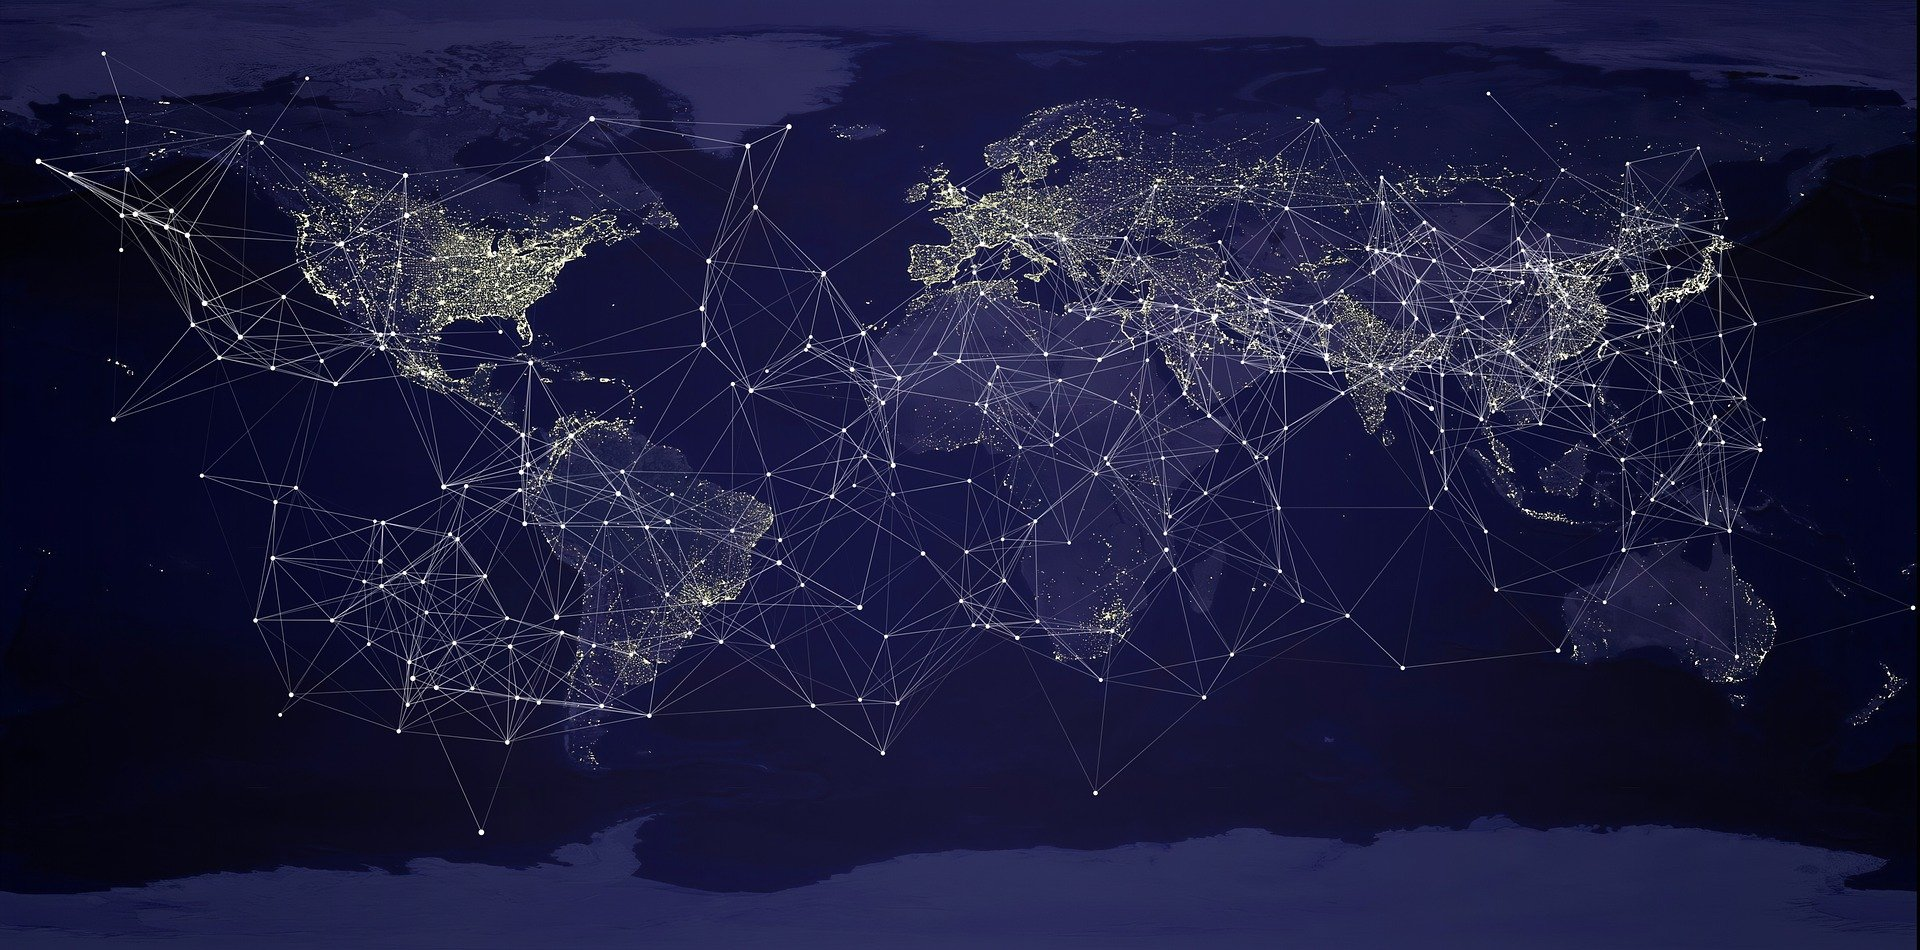
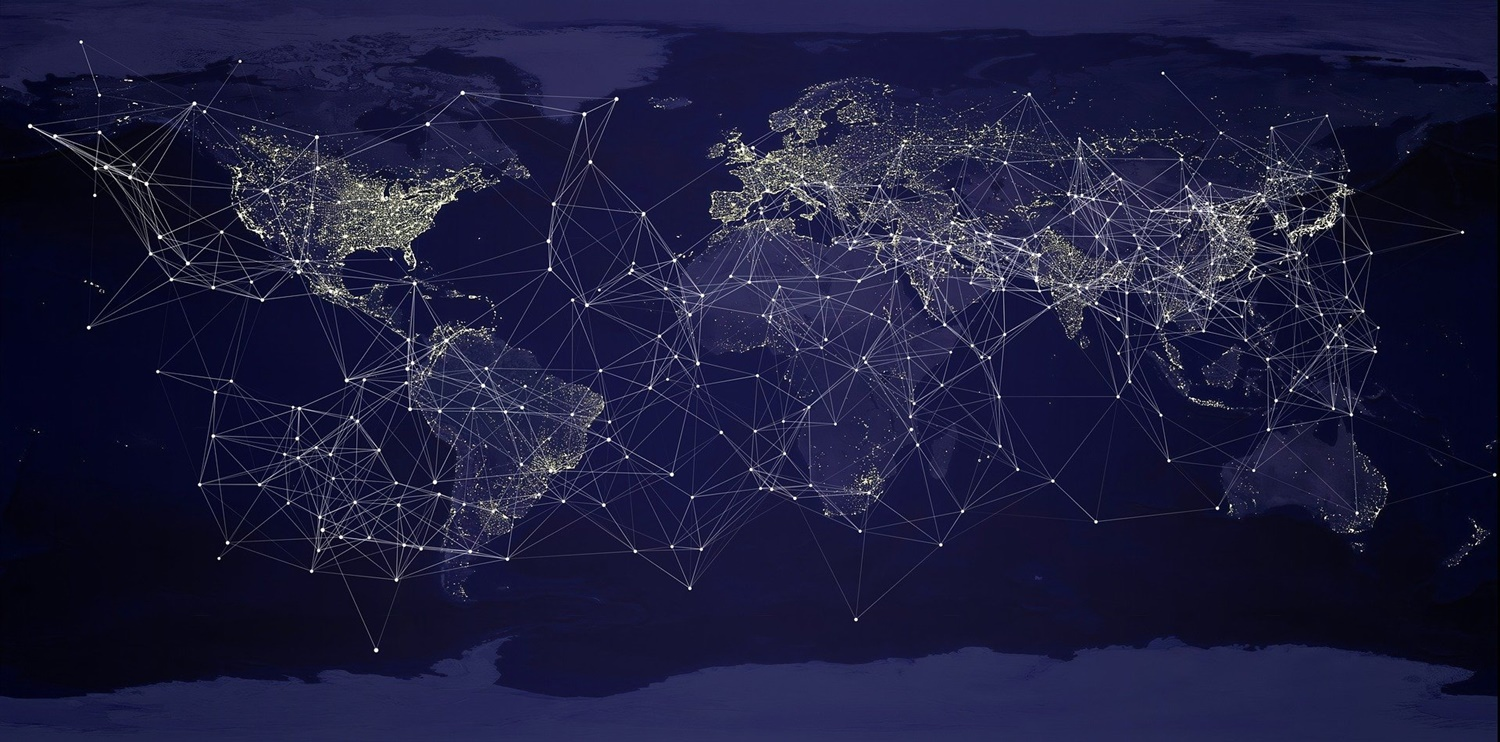
color change
color change

Changed region(s): [[0.2453, 0.248, 0.3067, 0.341], [0.7973, 0.279, 0.828, 0.31]]

diff --git a/assets/css/main.css b/assets/css/main.css
@@ -226,7 +226,7 @@ input, select, textarea {
 		transform: translate3d(0,0,0);
 	/* Set your background with this */
 
-		background: #348cb2 url("images/bg.jpg") bottom left;
+		background: #23224C url("images/bg.jpg") bottom left;
 		background-repeat: repeat-x;
 		height: 100%;
 		left: 0;
